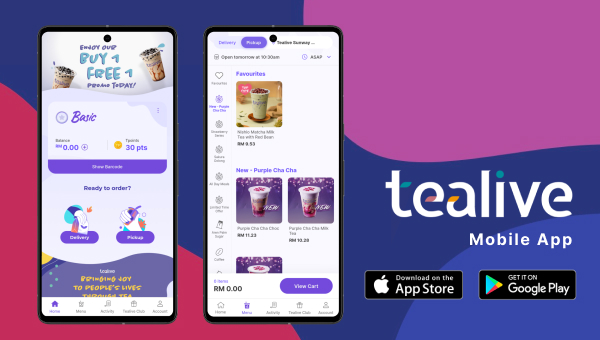
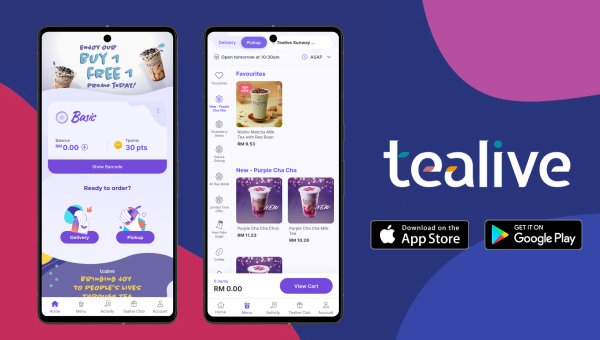
professional projects: updated links

Changed region(s): [[0.48, 0.0, 1.0, 0.7353], [0.6, 0.7941, 0.96, 0.8824]]

diff --git a/src/contents/professional_projects.ts b/src/contents/professional_projects.ts
@@ -6,8 +6,14 @@ const professionalProjects: Project[] = [
     slug: "mobius_website",
     thumbnail: "/projects/mobius_small.jpg",
     title: "Mobius Digital Systems",
-    tags: ["Mobile", "Web"],
+    tags: ["Web"],
     tools: ["React.js", "GSAP", "React Three Fiber"],
+    links: [
+      {
+        title: "mobius-digital.com",
+        url: "https://mobius-digital.com/",
+      },
+    ],
     description:
       "This is a website that I built, featuring a bee and hexagon theme, with animations to provide a more engaging user experience. The site includes a project showcase and a blog to display the company's achievements and insights.",
   },
@@ -15,9 +21,23 @@ const professionalProjects: Project[] = [
     id: "vivavalet",
     slug: "vivavalet",
     thumbnail: "/projects/vivavalet_small.jpeg",
-    title: "Vivavalet",
+    title: "VivaValet",
     tags: ["Mobile", "Web"],
     tools: ["Flutter", "Nuxt.js"],
+    links: [
+      {
+        title: "vivavalet.com",
+        url: "https://www.vivavalet.com/",
+      },
+      {
+        title: "SP App (Android)",
+        url: "https://play.google.com/store/apps/details?id=com.vivavalet.sp.android",
+      },
+      {
+        title: "SP App (iOS)",
+        url: "https://apps.apple.com/us/app/vivavalet-sp/id6471544429",
+      },
+    ],
     description:
       "VivaValet is an app that provides services for the elderly. Services include ordering rides, food, housekeeping, home repairs, etc. The project includes a website and mobile app that serves the customers, a mobile app for service providers, and an admin dashboard.",
   },
@@ -28,6 +48,16 @@ const professionalProjects: Project[] = [
     title: "SP2S",
     tags: ["Web"],
     tools: ["Nuxt.js", "Digital Ocean"],
+    links: [
+      {
+        title: "SP2S (Malaysia)",
+        url: "https://sp2smalaysia.com/",
+      },
+      {
+        title: "SP2S (Indonesia)",
+        url: "https://sp2s.id/",
+      },
+    ],
     description:
       "This is a revamp of the original SP2S site. The project comprises a customer-facing website and a point-of-sales system. This project serves customers in Malaysia and Indonesia, providing a streamlined shopping experience and improved point-of-sale operations for both countries.",
   },
@@ -38,6 +68,16 @@ const professionalProjects: Project[] = [
     title: "Tealive",
     tags: ["Mobile"],
     tools: ["Flutter"],
+    links: [
+      {
+        title: "Play Store (Android)",
+        url: "https://play.google.com/store/apps/details?id=com.webbytes.tealive&hl=en",
+      },
+      {
+        title: "App Store (iOS)",
+        url: "https://apps.apple.com/my/app/tealive-my-order-bubble-tea/id1232206208",
+      },
+    ],
     description:
       "Revamped Tealive's mobile app, allowing users to easily purchase bubble tea from the app and manage their reward points effortlessly. The revamped app serves both customers in Malaysia and the Phillipines. The Malaysian app boasts a 4.8-star rating on the Play Store and over a million downloads.",
   },
@@ -48,6 +88,16 @@ const professionalProjects: Project[] = [
     title: "HeyJom",
     tags: ["Mobile"],
     tools: ["Flutter"],
+    links: [
+      {
+        title: "Play Store (Android)",
+        url: "https://play.google.com/store/apps/details?id=com.heyjom.android&hl=en",
+      },
+      {
+        title: "App Store (iOS)",
+        url: "https://apps.apple.com/my/app/heyjom/id1589012729",
+      },
+    ],
     description:
       "HeyJom is an app for users to purchase entries for various sports events such as marathon runs. The app features a leaderboard system to track performance and image galleries for each race event for users to view and purchase race photos. ",
   },
@@ -68,6 +118,24 @@ const professionalProjects: Project[] = [
     title: "Tourplus",
     tags: ["Mobile"],
     tools: ["Swift", "Flutter"],
+    links: [
+      {
+        title: "Customer App (Android)",
+        url: "https://play.google.com/store/apps/details?id=my.tourplus.cust",
+      },
+      {
+        title: "Customer App (iOS)",
+        url: "https://apps.apple.com/my/app/tourplus-discover-eat-travel/id1484588228",
+      },
+      {
+        title: "Provider App (Android)",
+        url: "https://play.google.com/store/apps/details?id=my.tourplus.tguide&hl=en",
+      },
+      {
+        title: "Provider App (iOS)",
+        url: "https://apps.apple.com/my/app/tourplus-provider/id1518930338",
+      },
+    ],
     description:
       "Tourplus connects users with tour guides for booking personalized services and provides ticketing for a range of attractions and events. The app features a hotel booking service integrated with Ctrip APIs. This project includes both a customer-facing app and a provider app to connect travelers to local guides and vice versa.",
   },
